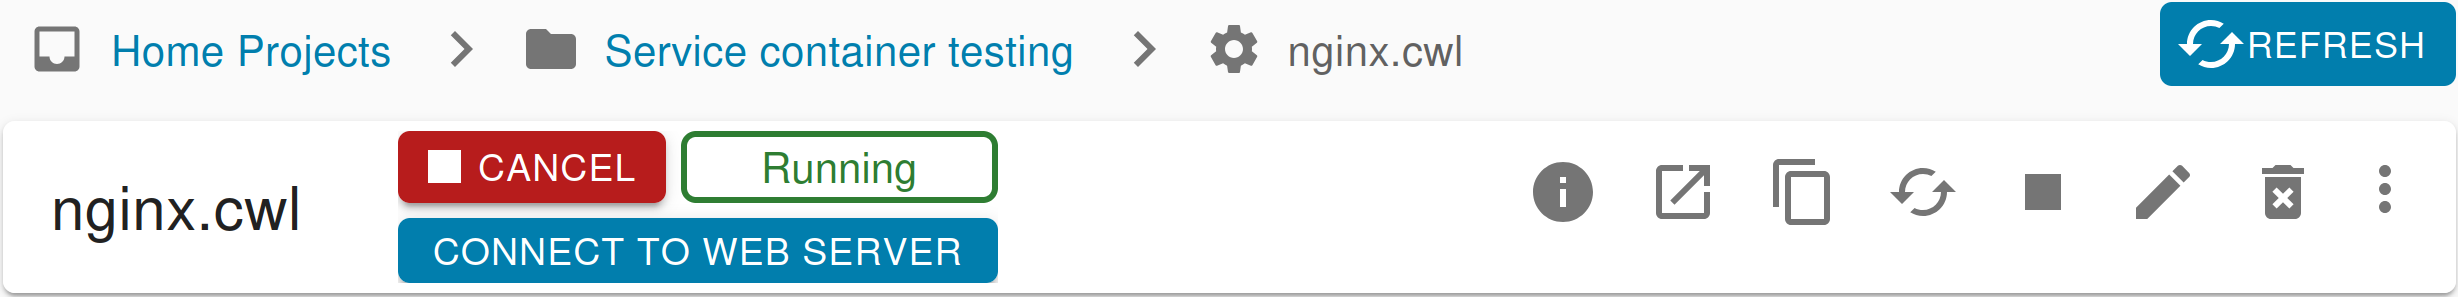
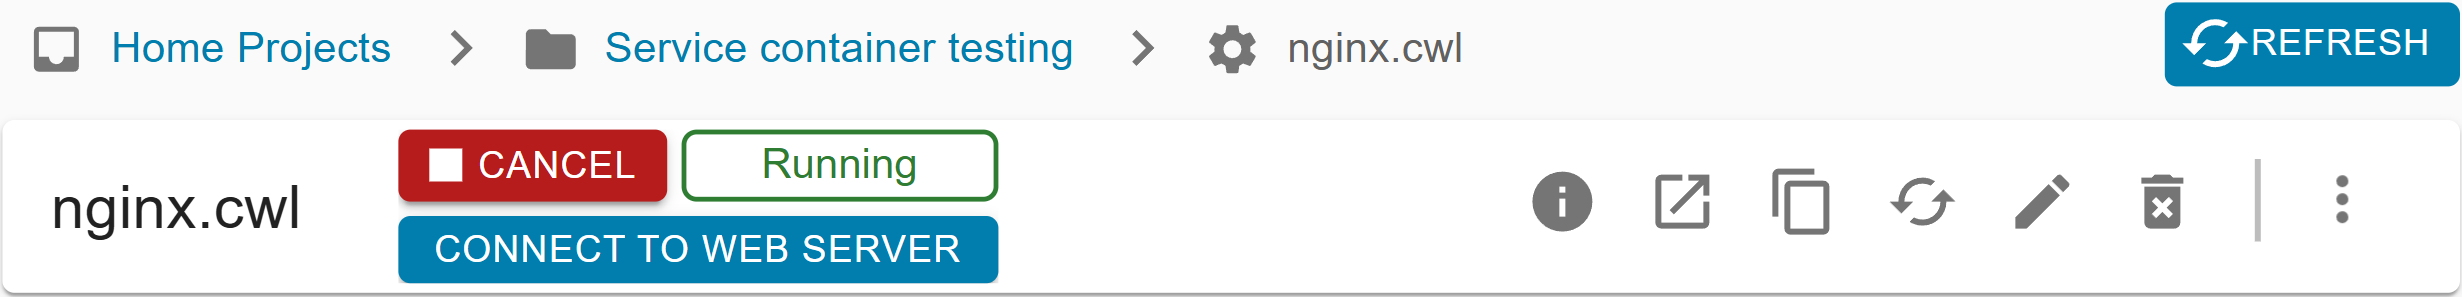
23215: Update service container doc screenshot
Arvados-DCO-1.1-Signed-off-by: Stephen Smith <stephen@curii.com>

diff --git a/doc/sdk/R/index.html.md b/doc/sdk/R/index.html.md
@@ -1,0 +1,382 @@
+---
+layout: default
+navsection: sdk
+navmenu: R
+title: "R SDK Overview"
+...
+
+[comment]: # (Copyright © The Arvados Authors. All rights reserved.)
+[comment]: # ()
+[comment]: # (SPDX-License-Identifier: CC-BY-SA-3.0)
+
+# R SDK for Arvados
+
+This SDK focuses on providing support for accessing Arvados projects, collections, and the files within collections. The API is not final and feedback is solicited from users on ways in which it could be improved.
+
+## Key Topics
+* Installation
+* Usage
+  * Initializing API
+  * Working with collections
+  * Manipulating collection content
+  * Working with Arvados projects
+  * Help
+* Building the ArvadosR package
+
+## Installation
+
+Minimum R version required to run ArvadosR is 3.3.0.
+
+```r
+install.packages("ArvadosR", repos=c("https://r.arvados.org", getOption("repos")["CRAN"]), dependencies=TRUE)
+library('ArvadosR')
+```
+
+> **Note**
+> On Linux, you may have to install supporting packages.
+>
+> On Centos 7, this is:
+> ```
+> yum install libxml2-devel openssl-devel curl-devel
+> ```
+>
+> On Debian, this is:
+> ```
+> apt-get install build-essential libxml2-dev libssl-dev libcurl4-gnutls-dev
+> ```
+
+
+## Usage
+
+### Initializing API
+
+```r
+# use environment variables ARVADOS_API_TOKEN and ARVADOS_API_HOST
+arv <- Arvados$new()
+
+# provide them explicitly
+arv <- Arvados$new("your Arvados token", "example.arvadosapi.com")
+```
+
+Optionally, add `numRetries` parameter to specify number of times to retry failed service requests. Default is 0.
+
+```r
+arv <- Arvados$new("your Arvados token", "example.arvadosapi.com", numRetries = 3)
+```
+
+This parameter can be set at any time using `setNumRetries`
+
+```r
+arv$setNumRetries(5)
+```
+
+### Working with collections
+
+#### Get a collection:
+
+```r
+collection <- arv$collections_get("uuid")
+```
+
+Be aware that the result from `collections_get` is not a Collection class. The object returned from this method lets you access collection fields like “name” and “description”. The Collection class lets you access the files in the collection for reading and writing, and is described in the next section.
+
+#### List collections:
+
+```r
+# offset of 0 and default limit of 100
+collectionList <- arv$collections_list(list(list("name", "like", "Test%")))
+
+collectionList <- arv$collections_list(list(list("name", "like", "Test%")), limit = 10, offset = 2)
+
+# count of total number of items (may be more than returned due to paging)
+collectionList$items_available
+
+# items which match the filter criteria
+collectionList$items
+```
+
+#### List all collections even if the number of items is greater than maximum API limit:
+
+```r
+collectionList <- listAll(arv$collections_list, list(list("name", "like", "Test%")))
+```
+
+#### Delete a collection:
+
+```r
+deletedCollection <- arv$collections_delete("uuid")
+```
+
+#### Update a collection’s metadata:
+
+```r
+collection <- arv$collections_update(name = "newCollectionTitle", description = "newCollectionDescription", ownerUUID = "collectionOwner", properties = NULL, uuid =  "collectionUUID")
+```
+
+#### Create a new collection:
+
+```r
+newCollection <- arv$collections_create(name = "collectionTitle", description = "collectionDescription", ownerUUID = "collectionOwner", properties = Properties)
+```
+
+### Manipulating collection content
+
+#### Initialize a collection object:
+
+```r
+collection <- Collection$new(arv, "uuid")
+```
+
+#### Get list of files:
+
+```r
+files <- collection$getFileListing()
+```
+
+#### Get ArvadosFile or Subcollection from internal tree-like structure:
+
+```r
+arvadosFile <- collection$get("location/to/my/file.cpp")
+# or
+arvadosSubcollection <- collection$get("location/to/my/directory/")
+```
+
+#### Read a table:
+
+```r
+arvadosFile   <- collection$get("myinput.txt")
+arvConnection <- arvadosFile$connection("r")
+mytable       <- read.table(arvConnection)
+```
+
+#### Write a table:
+
+```r
+arvadosFile   <- collection$create("myoutput.txt")[[1]]
+arvConnection <- arvadosFile$connection("w")
+write.table(mytable, arvConnection)
+arvadosFile$flush()
+```
+
+#### Read a table from a tab delimited file:
+
+```r
+arvadosFile   <- collection$get("myinput.txt")
+arvConnection <- arvadosFile$connection("r")
+mytable       <- read.delim(arvConnection)
+```
+
+#### Read a gzip compressed R object:
+
+```r
+obj <- readRDS(gzcon(coll$get("abc.RDS")$connection("rb")))
+```
+
+#### Write to existing file (overwrites current content of the file):
+
+```r
+arvadosFile <- collection$get("location/to/my/file.cpp")
+arvadosFile$write("This is new file content")
+```
+
+#### Read whole file or just a portion of it:
+
+```r
+fileContent <- arvadosFile$read()
+fileContent <- arvadosFile$read("text")
+fileContent <- arvadosFile$read("raw", offset = 1024, length = 512)
+```
+
+#### Read various file types:
+
+Chooses file type based on file name extension.  Recognized file extensions: 'txt', 'xlsx', 'csv', 'tsv', 'fasta', 'dat', 'bin', 'rds', 'rdata'.
+
+```r
+collection <- Collection$new(arv, collectionUUID)
+readFile <- collection$readArvFile(arvadosFile, istable = 'yes')                    # table
+readFile <- collection$readArvFile(arvadosFile, istable = 'no')                     # text
+readFile <- collection$readArvFile(arvadosFile)                                     # xlsx, csv, tsv, rds, rdata
+readFile <- collection$readArvFile(arvadosFile, fileclass = 'fasta')                # fasta
+readFile <- collection$readArvFile(arvadosFile, Ncol= 4, Nrow = 32)                 # binary data.frame, only numbers
+readFile <- collection$readArvFile(arvadosFile, Ncol = 5, Nrow = 150, istable = "factor") # binary data.frame with factor or text
+```
+
+#### Get ArvadosFile or Subcollection size:
+
+```r
+size <- arvadosFile$getSizeInBytes()
+# or
+size <- arvadosSubcollection$getSizeInBytes()
+```
+
+#### Create new file in a collection (returns a vector of one or more ArvadosFile objects):
+
+```r
+collection$create(files)
+```
+
+**Example**
+
+```
+mainFile <- collection$create("cpp/src/main.cpp")[[1]]
+fileList <- collection$create(c("cpp/src/main.cpp", "cpp/src/util.h"))
+```
+
+#### Delete file from a collection:
+
+```r
+collection$remove("location/to/my/file.cpp")
+```
+
+You can remove both Subcollection and ArvadosFile. If subcollection contains more files or folders they will be removed recursively.
+
+> **Note**
+> You can also remove multiple files at once:
+> ```
+> collection$remove(c("path/to/my/file.cpp", "path/to/other/file.cpp"))
+> ```
+
+#### Delete file or folder from a Subcollection:
+
+```r
+subcollection <- collection$get("mySubcollection/")
+subcollection$remove("fileInsideSubcollection.exe")
+subcollection$remove("folderInsideSubcollection/")
+```
+
+#### Move or rename a file or folder within a collection (moving between collections is currently not supported):
+
+##### Directly from collection
+
+```r
+collection$move("folder/file.cpp", "file.cpp")
+```
+
+##### Or from file
+
+```r
+file <- collection$get("location/to/my/file.cpp")
+file$move("newDestination/file.cpp")
+```
+
+##### Or from subcollection
+
+```r
+subcollection <- collection$get("location/to/folder")
+subcollection$move("newDestination/folder")
+```
+
+> **Note**
+> Make sure to include new file name in destination. In second example `file$move(“newDestination/”)` will not work.
+
+#### Copy file or folder within a collection (copying between collections is currently not supported):
+
+##### Directly from collection
+
+```r
+collection$copy("folder/file.cpp", "file.cpp")
+```
+
+##### Or from file
+
+```r
+file <- collection$get("location/to/my/file.cpp")
+file$copy("destination/file.cpp")
+```
+
+##### Or from subcollection
+
+```r
+subcollection <- collection$get("location/to/folder")
+subcollection$copy("destination/folder")
+```
+
+### Working with Aravdos projects
+
+#### Get a project:
+
+```r
+project <- arv$project_get("uuid")
+```
+
+#### List projects:
+
+```r
+list subprojects of a project
+projects <- arv$project_list(list(list("owner_uuid", "=", "aaaaa-j7d0g-ccccccccccccccc")))
+
+list projects which have names beginning with Example
+examples <- arv$project_list(list(list("name","like","Example%")))
+```
+
+#### List all projects even if the number of items is greater than maximum API limit:
+
+```r
+projects <- listAll(arv$project_list, list(list("name","like","Example%")))
+```
+
+##### Delete a project:
+
+```r
+deletedProject <- arv$project_delete("uuid")
+```
+
+##### Update project:
+
+```r
+updatedProject <- arv$project_update(name = "new project name", properties = newProperties, uuid = "projectUUID")
+```
+
+##### Create project:
+
+```r
+newProject <- arv$project_create(name = "project name", description = "project description", owner_uuid = "project UUID", properties = NULL, ensureUniqueName = "false")
+```
+
+### Help
+
+#### View help page of Arvados classes by puting `?` before class name:
+
+```r
+?Arvados
+?Collection
+?Subcollection
+?ArvadosFile
+```
+
+#### View help page of any method defined in Arvados class by puting `?` before method name:
+
+```r
+?collections_update
+?jobs_get
+```
+
+ <!-- Taka konwencja USAGE -->
+
+## Building the ArvadosR package
+
+```r
+cd arvados/sdk && R CMD build R
+```
+
+This will create a tarball of the ArvadosR package in the current directory.
+
+ <!-- Czy dodawać Documentation / Community / Development and Contributing / Licensing? Ale tylko do części Rowej? Wszystko? Wcale? -->
+
+## Documentation
+
+Complete documentation, including the [User Guide](https://doc.arvados.org/user/index.html), [Installation documentation](https://doc.arvados.org/install/index.html), [Administrator documentation](https://doc.arvados.org/admin/index.html) and
+[API documentation](https://doc.arvados.org/api/index.html) is available at http://doc.arvados.org/
+
+## Community
+
+Visit [Arvados Community and Getting Help](https://doc.arvados.org/user/getting_started/community.html).
+
+## Reporting bugs
+
+[Report a bug](https://dev.arvados.org/projects/arvados/issues/new) on [dev.arvados.org](https://dev.arvados.org).
+
+## Licensing
+
+Arvados is Free Software.  See [Arvados Free Software Licenses](https://doc.arvados.org/user/copying/copying.html) for information about the open source licenses used in Arvados.
+
